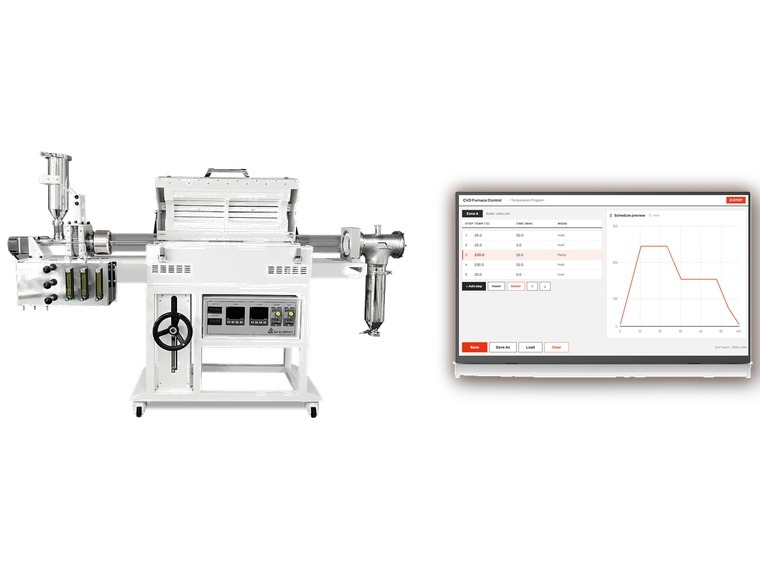
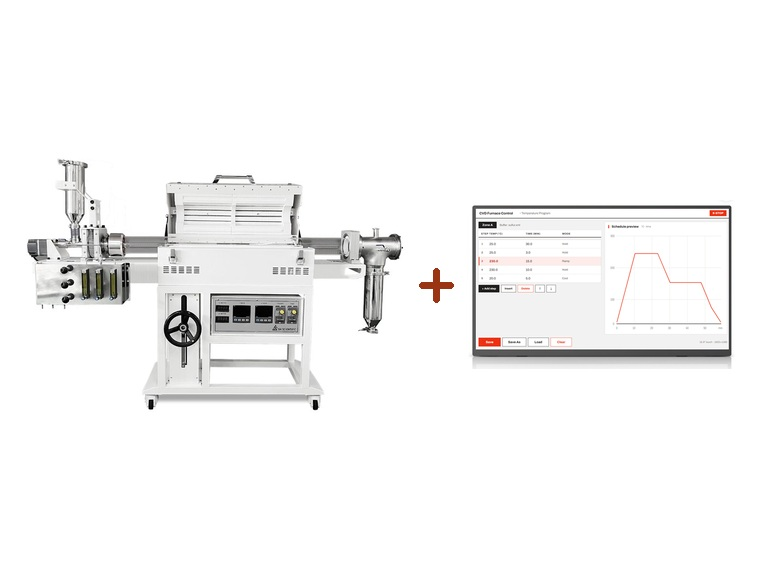
회전튜브로 PRO: 대표사진 재작업, 비교 섹션 정리, Alicat Q&A 비교표 하단 배치

diff --git a/sh-scientific/catalog/rotary-tube-furnace-pro/index.html b/sh-scientific/catalog/rotary-tube-furnace-pro/index.html
@@ -132,7 +132,7 @@
   .vs-h{ text-align:center; font-family:var(--serif); font-size:27px; font-weight:600; color:#3A342E; letter-spacing:-.02em; margin:0 0 24px; line-height:1.4; }
   .vs-h b{ font-weight:700; color:#1A1A1A; }
   .vs-box{ display:grid; grid-template-columns:var(--ax) minmax(0,1fr) minmax(0,1fr); column-gap:var(--gp); }
-  .vs-ax{ display:flex; align-items:center; justify-content:flex-end; padding:0 2px 0 0; }
+  .vs-ax{ display:flex; align-items:center; justify-content:center; padding:0; }
   .vs-ax span{ font-size:13px; font-weight:800; color:#B4ADA5; letter-spacing:-.01em; }
   .vs-c{ background:#fff; padding:0 24px; border-left:1px solid #EAE7E3; border-right:1px solid #EAE7E3; }
   .vs-c.b{ border-left:1.5px solid #C2410C; border-right:1.5px solid #C2410C; }
@@ -147,7 +147,7 @@
   .vs-c.b .vs-chip{ background:#C2410C; color:#fff; }
   .vs-nm span.t{ font-size:15px; font-weight:800; color:#7C736A; letter-spacing:-.01em; }
   .vs-c.b .vs-nm span.t{ color:#1A1A1A; }
-  .vs-t{ list-style:none; text-align:left; font-size:13.5px; line-height:1.6; color:#9A948D; margin:0; padding:26px 2px; display:flex; flex-direction:column; gap:9px; }
+  .vs-t{ list-style:none; text-align:center; font-size:13.5px; line-height:1.6; color:#9A948D; margin:0; padding:26px 2px; display:flex; flex-direction:column; gap:9px; }
   .vs-t li{ position:relative; }
   .vs-sub{ display:block; margin-top:4px; font-size:12px; font-weight:400; color:#8A837C; line-height:1.55; }
   .vs-c.b .vs-sub b{ color:#C2410C; font-weight:700; }
@@ -164,7 +164,7 @@
     .vs-h{ font-size:20px; }
     .vs-eb{ font-size:11px; letter-spacing:.3em; }
     .vs-box{ grid-template-columns:minmax(0,1fr) minmax(0,1fr); }
-    .vs-ax{ grid-column:1 / -1; justify-content:flex-start; padding:16px 0 6px; }
+    .vs-ax{ grid-column:1 / -1; justify-content:center; padding:16px 0 6px; }
     .vs-ax span{ font-size:11.5px; letter-spacing:.05em; }
     .vs-c{ padding:0 12px; }
     .vs-r1{ padding-top:18px; }
@@ -177,6 +177,26 @@
     .vs-c:not(.vs-r1),.vs-c.b:not(.vs-r1){ border-top:0; }
     .vs-t br{ display:none; }
   }
+
+  /* --- FAQ 시나리오 예시 --- */
+  .faq-ex{ margin:10px 0 0; display:flex; flex-direction:column; gap:9px; }
+  .faq-ex .ex{ background:#FAF8F5; border-left:3px solid #C2410C; border-radius:0 8px 8px 0; padding:11px 14px; }
+  .faq-ex .ex-h{ font-size:12.5px; font-weight:800; color:#9A3412; margin:0 0 6px; letter-spacing:-.01em; }
+  .faq-ex ol,.faq-ex ul{ margin:0; padding:0; list-style:none; display:flex; flex-direction:column; gap:4px; }
+  .faq-ex li{ font-size:13px; color:#3a3a3a; line-height:1.6; padding-left:22px; position:relative; }
+  .faq-ex li .n{ position:absolute; left:0; top:0; font-size:11px; font-weight:800; color:#C2410C; }
+  .faq-ex li b{ color:#1A1A1A; }
+  .ex-grid{ display:grid; grid-template-columns:minmax(0,.92fr) minmax(0,1.08fr); gap:18px; align-items:center; }
+  .exg{ width:100%; height:auto; display:block; }
+  @media(max-width:760px){ .ex-grid{ grid-template-columns:1fr; gap:12px; } }
+
+
+  /* --- 비교표 아래 심화 Q --- */
+  .vsq{ margin:22px 0 4px; border:1px solid #E7E3DE; border-radius:14px; padding:20px 24px 22px; background:#fff; }
+  .vsq-q{ font-family:var(--serif); font-size:17px; font-weight:700; color:#1A1A1A; letter-spacing:-.02em; margin:0 0 10px; line-height:1.45; }
+  .vsq-q .vsq-b{ display:inline-block; margin-right:9px; font-family:var(--sans); font-size:11px; font-weight:800; color:#fff; background:#C2410C; border-radius:5px; padding:3px 8px; vertical-align:2px; }
+  .vsq .faq-a{ font-size:14px; margin:0; }
+  @media(max-width:760px){ .vsq{ padding:16px 15px 18px; } .vsq-q{ font-size:15px; } }
 </style>
 <link rel="stylesheet" href="/assets/site.css">
 <!--HEADLD_START--><script type="application/ld+json">{"@context": "https://schema.org", "@graph": [{"@type": "Organization", "@id": "https://rndsetup.com/#org", "name": "실험셋업연구소", "alternateName": ["정량펌프연구소", "rndsetup", "이머전트", "Emergent", "emergent co."], "legalName": "이머전트", "taxID": "328-03-02926", "url": "https://rndsetup.com/", "email": "info@rndsetup.com", "telephone": "+82-70-8983-2600", "founder": {"@type": "Person", "name": "이영현"}, "sameAs": ["https://www.google.com/maps?cid=4429951187161412134", "https://www.youtube.com/@rndsetuplab", "https://www.linkedin.com/company/rndsetup/", "https://www.wikidata.org/wiki/Q140603002"], "slogan": "실험 장비 시스템 통합·제어", "description": "펌프·질량유량계(MFC)·전기로 등으로 온도·진공·유량을 제어하고, 나아가 측정 기기까지 연동해 서로 다른 실험 기기를 하나의 시스템으로 통합·자동화하는 실험 장비 시스템 통합·제어 전문. 온도·진공·유량 조건과 측정 데이터를 Modbus·RS485로 묶어 PC에서 통합 제어하고 무인 운전·로그(CSV)까지 하나의 셋업으로 만든다. 그 과정에서 필요한 개별 장비는 리드플루이드(LeadFluid)·삼흥에너지(SH Scientific) 공식 대리점이자 Alicat 질량유량계(MFC) 취급점으로 정품 공급하고 국내에서 직접 A/S(구매 시 3년 무상보증)까지 함께 지원한다.", "address": {"@type": "PostalAddress", "addressLocality": "부산광역시", "addressCountry": "KR"}, "areaServed": {"@type": "Country", "name": "대한민국"}, "knowsAbout": ["실험 장비 시스템 통합", "실험 기기 통합 제어", "온도 제어", "진공 제어", "유량 제어", "측정 기기 연동", "Modbus·RS-485 통합 제어", "실험실 정량펌프", "연동펌프(페리스탈틱 펌프)", "시린지펌프", "기어펌프", "질량유량계(MFC)", "관류배양", "연속배양(chemostat)", "리드플루이드(LeadFluid) 펌프", "리드플루이드 펌프 국내 직접 A/S", "실험 셋업 정보", "Alicat 질량유량계", "삼흥에너지(SH Scientific) 튜브퍼니스·전기로", "열처리로(전기로·튜브퍼니스)"], "contactPoint": {"@type": "ContactPoint", "telephone": "+82-70-8983-2600", "email": "info@rndsetup.com", "contactType": "customer support", "areaServed": "KR", "availableLanguage": "Korean"}, "makesOffer": [{"@type": "Offer", "itemOffered": {"@type": "Service", "name": "LeadFluid 정량·연동·시린지펌프 제어 시스템 공급·A/S", "serviceType": "실험실 펌프 시스템 공급 및 소프트웨어 제어", "brand": {"@type": "Brand", "name": "LeadFluid", "alternateName": "리드플루이드"}}}, {"@type": "Offer", "itemOffered": {"@type": "Service", "name": "Alicat 질량유량계(MFC) 공급·시스템 연동", "serviceType": "질량유량계 공급 및 제어 연동", "brand": {"@type": "Brand", "name": "Alicat Scientific"}}}]}, {"@type": "WebSite", "@id": "https://rndsetup.com/#website", "name": "실험셋업연구소", "url": "https://rndsetup.com/", "publisher": {"@id": "https://rndsetup.com/#org"}, "inLanguage": "ko"}, {"@type": "Brand", "@id": "https://rndsetup.com/#leadfluid", "name": "리드플루이드", "alternateName": ["LeadFluid", "Lead Fluid", "리드플루이드"], "sameAs": ["https://www.leadfluid.com/", "https://www.leadfluid.com.cn/", "https://www.wikidata.org/wiki/Q140602893"]}]}</script><!--HEADLD_END--></head>
@@ -199,17 +219,14 @@
 </section>
 <section class="prosec">
   <div class="wrap">
-    <span class="pro-tag">PRO 버전 · PC 제어</span>
-    <h2 class="pro-h">컨트롤러 앞에 서 있는 시간을 없앱니다</h2>
-    <p class="pro-sub">노 본체는 그대로, <b>제어 방식만 바꾼 상위 구성</b>입니다. 무엇이 달라지는지 아래에서 항목별로 비교했습니다.</p>
     <div class="vs">
       <p class="vs-eb">BASIC vs PRO</p>
       <h3 class="vs-h">정확한 실험과 장비 안전을 위해<br><b>PRO 버전을 추천드립니다</b></h3>
       <div class="vs-box">
       <div class="vs-ax"></div>
       <div class="vs-c a vs-r1">
-        <div class="vs-im"><img src="/img/product/sh/ctrl-sp590.jpg" alt="기본 버전 — SP590 온도 컨트롤러" loading="lazy" width="800" height="600"></div>
-        <p class="vs-nm"><span class="vs-chip">기본</span><span class="t">SP590 컨트롤러</span></p>
+        <div class="vs-im"><img src="/img/product/sh/ctrl-sp590.jpg" alt="기본 버전 — 기존 온도 컨트롤러" loading="lazy" width="800" height="600"></div>
+        <p class="vs-nm"><span class="vs-chip">기본</span><span class="t">기존 컨트롤러</span></p>
       </div>
       <div class="vs-c b vs-r1">
         <div class="vs-im"><img src="/img/product/sh/ctrl-pc.jpg" alt="PRO 버전 — PC 제어 소프트웨어" loading="lazy" width="800" height="600"></div>
@@ -226,6 +243,10 @@
       <div class="vs-c b vs-last"><ul class="vs-t"><li><b>실험 로그 저장</b> 후 정상작동 확인 가능</li><li><b>온도 상승률·오버슈팅·유지시간·쿨링속도</b> 분석 가능</li><li><b>튜토리얼 기능</b>으로 인수인계 문제 해결</li></ul></div>
       </div>
       <p class="vs-ft">PRO는 장비를 바꾸는 게 아니라 <b>제어 방식을 바꾸는 구성</b>입니다. 노 본체·사양은 기본 버전과 동일합니다.<br>가스 분위기까지 함께 제어하려면 <a href="/alicat/" style="color:#C2410C;font-weight:700;text-decoration:none">Alicat 질량유량계(MFC)</a>를 추가해 <b>온도·유량을 하나의 스케줄</b>로 묶습니다.</p>
+    </div>
+    <div class="vsq">
+      <p class="vsq-q"><span class="vsq-b">Q</span>Alicat MFC를 붙이면 가스 유량도 자동으로 제어되나요?</p>
+      <p class="faq-a">네. PRO의 PC 제어 시스템에 <b>Alicat 질량유량계(MFC)</b>를 연동하면 <b>온도와 가스 유량을 하나의 스케줄</b>로 묶어 운전합니다. 아래처럼 시나리오를 미리 짜두고 <b>시작만 누르면</b> 나머지는 자동입니다.</p><div class="faq-ex"><div class="ex"><p class="ex-h">예시 — 퍼지부터 가스 잠금까지 한 번에</p><div class="ex-grid"><ul><li><span class="n">①</span><b>불활성 가스 200cc/min</b>으로 <b>30분</b> 퍼지</li><li><span class="n">②</span><b>5℃/min</b> 속도로 승온 스케줄 시작</li><li><span class="n">③</span>타겟 온도 도달 — 불활성 가스 <b>200 → 50cc/min</b>으로 자동 감소</li><li><span class="n">④</span>공정 완료 — 불활성 가스 <b>50 → 0cc/min</b>으로 자동 잠금</li></ul><svg class="exg" viewBox="0 0 700 250" role="img" aria-label="퍼지 30분(가스 200cc/min) → 5도/분 승온 → 타겟 도달 시 가스 200에서 50cc/min → 공정 완료 시 50에서 0cc/min 잠금"><style>.gl{stroke:#EFEBE6;stroke-width:1}.tk{stroke:#D8D2CB;stroke-width:1}.ax,.ay,.ay2{font-size:10px;fill:#A8A099;font-family:inherit}.ay{text-anchor:end}.ay2{text-anchor:start;fill:#7A8CA6}.ax{text-anchor:middle}.tl{fill:none;stroke:#C2410C;stroke-width:2.4;stroke-linejoin:round}.glz{fill:none;stroke:#1E3A5F;stroke-width:2;stroke-dasharray:5 4;stroke-linejoin:round}.bd{fill:#C2410C}.bt{font-size:11px;font-weight:700;fill:#fff;text-anchor:middle;font-family:inherit}.lg{font-size:10.5px;font-weight:700;font-family:inherit}</style><line class="gl" x1="60" y1="206.0" x2="646" y2="206.0"/><text class="ay" x="52" y="210.0">0</text><line class="gl" x1="60" y1="154.6" x2="646" y2="154.6"/><text class="ay" x="52" y="158.6">200</text><line class="gl" x1="60" y1="103.1" x2="646" y2="103.1"/><text class="ay" x="52" y="107.1">400</text><line class="gl" x1="60" y1="51.7" x2="646" y2="51.7"/><text class="ay" x="52" y="55.7">600</text><text class="ay2" x="654" y="210.0">0</text><text class="ay2" x="654" y="138.0">100</text><text class="ay2" x="654" y="66.0">200</text><line class="tk" x1="60.0" y1="206" x2="60.0" y2="211"/><text class="ax" x="60.0" y="225">0</text><line class="tk" x1="125.1" y1="206" x2="125.1" y2="211"/><text class="ax" x="125.1" y="225">30</text><line class="tk" x1="374.7" y1="206" x2="374.7" y2="211"/><text class="ax" x="374.7" y="225">145</text><line class="tk" x1="504.9" y1="206" x2="504.9" y2="211"/><text class="ax" x="504.9" y="225">205</text><line class="tk" x1="635.1" y1="206" x2="635.1" y2="211"/><text class="ax" x="635.1" y="225">265</text><line class="tk" x1="60" y1="206" x2="646" y2="206"/><polyline class="glz" points="60.0,62.0 374.7,62.0 374.7,170.0 504.9,170.0 504.9,206.0 635.1,206.0"/><polyline class="tl" points="60.0,199.6 125.1,199.6 374.7,51.7 504.9,51.7 635.1,199.6"/><g><circle class="bd" cx="74.0" cy="46.0" r="11"/><text class="bt" x="74.0" y="50.5">①</text></g><g><circle class="bd" cx="127.1" cy="183.6" r="11"/><text class="bt" x="127.1" y="188.1">②</text></g><g><circle class="bd" cx="378.7" cy="37.7" r="11"/><text class="bt" x="378.7" y="42.2">③</text></g><g><circle class="bd" cx="518.9" cy="156.0" r="11"/><text class="bt" x="518.9" y="160.5">④</text></g><text class="ay" x="8" y="16" style="text-anchor:start;fill:#C2410C;font-weight:700">온도 ℃</text><text class="ay2" x="640" y="16" style="font-weight:700">유량 cc/min</text><text class="ax" x="353.0" y="243" style="fill:#B4ADA5">시간 (min)</text><line class="tl" x1="60" y1="232" x2="82" y2="232"/><text class="lg" x="88" y="236" fill="#C2410C">온도</text><line class="glz" x1="130" y1="232" x2="152" y2="232"/><text class="lg" x="158" y="236" fill="#1E3A5F">가스 유량</text></svg></div></div></div><p class="faq-a">온도·유량 이력은 <b>함께 로그로 저장</b>돼, 같은 조건을 그대로 다시 돌릴 수 있습니다.</p>
     </div>
   </div>
 </section>
@@ -279,11 +300,11 @@
   <div class="wrap">
     <hr class="pkg-hr">
     <h2 class="faq-h">이 제품 FAQ</h2>
-    <div class="faq-item"><p class="faq-q">회전 튜브로는 일반 튜브로와 무엇이 다른가요?</p><p class="faq-a">튜브가 <b>회전</b>하면서 시료를 연속으로 투입·회수합니다. 분말이 뭉치지 않고 고르게 열을 받으며, 회전속도(0.7~14RPM)와 경사각(0~15°)으로 <b>체류시간</b>을 조절합니다. 배치 단위로 넣고 빼는 일반 튜브로와 달리 <b>연속 공정</b>에 가깝습니다.</p></div><div class="faq-item"><p class="faq-q">열분해(Pyrolysis)에 쓸 수 있나요?</p><p class="faq-a">가능합니다. 후단부에 <b>대형 응축장치(콜드트랩 베스, SH-WB-68/100GDR)</b>를 연결해 발생 가스를 포집·회수합니다. 타르 배출용 KF25 Port가 기본 구성되어 있고, 배기 가스 응축 방지용 <b>Heating Jacket(Max 400℃)</b>을 옵션으로 추가할 수 있습니다.</p></div><div class="faq-item"><p class="faq-q">실제로 몇 도까지 쓰는 게 맞나요?</p><p class="faq-a">스펙은 1200℃지만 <b>로 분위기 온도 1000℃ 이하</b> 사용에 적합합니다. 옵션으로 사용온도를 1100℃까지 올릴 수 있습니다.</p></div><div class="faq-item"><p class="faq-q">Alicat MFC를 붙이면 가스 유량도 자동으로 제어되나요?</p><p class="faq-a">네. PRO의 PC 제어 시스템에 <b>Alicat 질량유량계(MFC)</b>를 연동하면 <b>승온 프로파일과 가스 유량을 하나의 스케줄</b>로 묶어 운전합니다. 예를 들어 승온 구간에는 불활성 가스를 흘리고, 유지 구간에서 반응가스로 전환하는 식의 시나리오를 미리 설계해두고 시작만 누르면 됩니다. 온도·유량 이력은 함께 로그로 남습니다.</p></div><div class="faq-item"><p class="faq-q">진공 공정도 되나요?</p><p class="faq-a">튜브 교체가 쉽고 <b>Gas Sealing 구조</b>가 갖춰져 있어 진공 공정 수행이 가능합니다. 진공펌프는 별도 구성이며 함께 셋업해 공급합니다.</p></div>
+    <div class="faq-item"><p class="faq-q">회전 튜브로는 일반 튜브로와 무엇이 다른가요?</p><p class="faq-a">튜브가 <b>회전</b>하면서 시료를 연속으로 투입·회수합니다. 분말이 뭉치지 않고 고르게 열을 받으며, 회전속도(0.7~14RPM)와 경사각(0~15°)으로 <b>체류시간</b>을 조절합니다. 배치 단위로 넣고 빼는 일반 튜브로와 달리 <b>연속 공정</b>에 가깝습니다.</p></div><div class="faq-item"><p class="faq-q">열분해(Pyrolysis)에 쓸 수 있나요?</p><p class="faq-a">가능합니다. 후단부에 <b>대형 응축장치(콜드트랩 베스, SH-WB-68/100GDR)</b>를 연결해 발생 가스를 포집·회수합니다. 타르 배출용 KF25 Port가 기본 구성되어 있고, 배기 가스 응축 방지용 <b>Heating Jacket(Max 400℃)</b>을 옵션으로 추가할 수 있습니다.</p></div><div class="faq-item"><p class="faq-q">실제로 몇 도까지 쓰는 게 맞나요?</p><p class="faq-a">스펙은 1200℃지만 <b>로 분위기 온도 1000℃ 이하</b> 사용에 적합합니다. 옵션으로 사용온도를 1100℃까지 올릴 수 있습니다.</p></div><div class="faq-item"><p class="faq-q">진공 공정도 되나요?</p><p class="faq-a">튜브 교체가 쉽고 <b>Gas Sealing 구조</b>가 갖춰져 있어 진공 공정 수행이 가능합니다. 진공펌프는 별도 구성이며 함께 셋업해 공급합니다.</p></div>
   </div>
 </section>
-<script type="application/ld+json">{"@context": "https://schema.org", "@type": "Product", "name": "삼흥에너지 1200℃ 회전 튜브로 PRO (Small Scale Rotary Kiln, SH-FU-RTG)", "brand": {"@type": "Brand", "name": "SH Scientific", "alternateName": "삼흥에너지"}, "category": "실험용 회전 튜브로(로터리 킬른)", "url": "https://rndsetup.com/sh-scientific/catalog/rotary-tube-furnace-pro/", "description": "삼흥에너지 회전 튜브로(Small Scale Rotary Kiln)는 튜브를 회전시키며 시료를 연속 투입·회수하는 1200℃ 열처리로입니다. Hot Zone 300mm를 2단 또는 3단으로 배치하고, 튜브 회전 0.7~14RPM·경사 0~15°를 조절해 체류시간을 맞춥니다. 석영 View Port로 튜브 내부 전체를 관찰할 수 있고, 열분해용으로 쓸 때는 후단에 대형 응축장치(콜드트랩 베스)를 연결할 수 있습니다. 로 분위기 온도 1000℃ 이하 사용에 적합합니다.", "additionalProperty": [{"@type": "PropertyValue", "name": "최고온도", "value": "1200℃"}, {"@type": "PropertyValue", "name": "Hot Zone", "value": "300mm × 2 또는 × 3"}, {"@type": "PropertyValue", "name": "적용 튜브", "value": "100~140Φ × 1500~2000mm"}, {"@type": "PropertyValue", "name": "튜브 회전속도", "value": "0.7~14 RPM"}, {"@type": "PropertyValue", "name": "튜브 경사각", "value": "0~15°"}, {"@type": "PropertyValue", "name": "발열체", "value": "Kanthal A-1"}, {"@type": "PropertyValue", "name": "권장 분위기 온도", "value": "1000℃ 이하"}, {"@type": "PropertyValue", "name": "가스 유량 스케줄링", "value": "Alicat 질량유량계(MFC) 연동 시 승온 프로파일과 가스 유량을 하나의 스케줄로 통합 제어"}, {"@type": "PropertyValue", "name": "온도컨트롤러", "value": "PC 제어 시스템 (PRO) · 기본형은 Programmable Controller SP590"}], "model": ["SH-FU-100RTG-2", "SH-FU-120RTG-2", "SH-FU-140RTG-2S", "SH-FU-100RTG-3", "SH-FU-120RTG-3", "SH-FU-140RTG-3S"], "image": "https://rndsetup.com/img/product/sh/rotary-tube-furnace-pro.jpg", "manufacturer": {"@type": "Organization", "name": "SH Scientific"}, "offers": {"@type": "Offer", "availability": "https://schema.org/InStock", "url": "https://rndsetup.com/sh-scientific/guide/#quoteForm", "businessFunction": "http://purl.org/goodrelations/v1#Sell", "seller": {"@id": "https://rndsetup.com/#org"}}, "isRelatedTo": {"@type": "WebPage", "@id": "https://rndsetup.com/sh-scientific/catalog/"}}</script>
-<script type="application/ld+json">{"@context": "https://schema.org", "@type": "FAQPage", "mainEntity": [{"@type": "Question", "name": "회전 튜브로는 일반 튜브로와 무엇이 다른가요?", "acceptedAnswer": {"@type": "Answer", "text": "튜브가 회전하면서 시료를 연속으로 투입·회수합니다. 분말이 뭉치지 않고 고르게 열을 받으며, 회전속도(0.7~14RPM)와 경사각(0~15°)으로 체류시간을 조절합니다. 배치 단위로 넣고 빼는 일반 튜브로와 달리 연속 공정에 가깝습니다."}}, {"@type": "Question", "name": "열분해(Pyrolysis)에 쓸 수 있나요?", "acceptedAnswer": {"@type": "Answer", "text": "가능합니다. 후단부에 대형 응축장치(콜드트랩 베스, SH-WB-68/100GDR)를 연결해 발생 가스를 포집·회수합니다. 타르 배출용 KF25 Port가 기본 구성되어 있고, 배기 가스 응축 방지용 Heating Jacket(Max 400℃)을 옵션으로 추가할 수 있습니다."}}, {"@type": "Question", "name": "실제로 몇 도까지 쓰는 게 맞나요?", "acceptedAnswer": {"@type": "Answer", "text": "스펙은 1200℃지만 로 분위기 온도 1000℃ 이하 사용에 적합합니다. 옵션으로 사용온도를 1100℃까지 올릴 수 있습니다."}}, {"@type": "Question", "name": "Alicat MFC를 붙이면 가스 유량도 자동으로 제어되나요?", "acceptedAnswer": {"@type": "Answer", "text": "네. PRO의 PC 제어 시스템에 Alicat 질량유량계(MFC)를 연동하면 승온 프로파일과 가스 유량을 하나의 스케줄로 묶어 운전합니다. 예를 들어 승온 구간에는 불활성 가스를 흘리고, 유지 구간에서 반응가스로 전환하는 식의 시나리오를 미리 설계해두고 시작만 누르면 됩니다. 온도·유량 이력은 함께 로그로 남습니다."}}, {"@type": "Question", "name": "진공 공정도 되나요?", "acceptedAnswer": {"@type": "Answer", "text": "튜브 교체가 쉽고 Gas Sealing 구조가 갖춰져 있어 진공 공정 수행이 가능합니다. 진공펌프는 별도 구성이며 함께 셋업해 공급합니다."}}]}</script>
+<script type="application/ld+json">{"@context": "https://schema.org", "@type": "Product", "name": "삼흥에너지 1200℃ 회전 튜브로 PRO (Small Scale Rotary Kiln, SH-FU-RTG)", "brand": {"@type": "Brand", "name": "SH Scientific", "alternateName": "삼흥에너지"}, "category": "실험용 회전 튜브로(로터리 킬른)", "url": "https://rndsetup.com/sh-scientific/catalog/rotary-tube-furnace-pro/", "description": "삼흥에너지 회전 튜브로(Small Scale Rotary Kiln)는 튜브를 회전시키며 시료를 연속 투입·회수하는 1200℃ 열처리로입니다. Hot Zone 300mm를 2단 또는 3단으로 배치하고, 튜브 회전 0.7~14RPM·경사 0~15°를 조절해 체류시간을 맞춥니다. 석영 View Port로 튜브 내부 전체를 관찰할 수 있고, 열분해용으로 쓸 때는 후단에 대형 응축장치(콜드트랩 베스)를 연결할 수 있습니다. 로 분위기 온도 1000℃ 이하 사용에 적합합니다.", "additionalProperty": [{"@type": "PropertyValue", "name": "최고온도", "value": "1200℃"}, {"@type": "PropertyValue", "name": "Hot Zone", "value": "300mm × 2 또는 × 3"}, {"@type": "PropertyValue", "name": "적용 튜브", "value": "100~140Φ × 1500~2000mm"}, {"@type": "PropertyValue", "name": "튜브 회전속도", "value": "0.7~14 RPM"}, {"@type": "PropertyValue", "name": "튜브 경사각", "value": "0~15°"}, {"@type": "PropertyValue", "name": "발열체", "value": "Kanthal A-1"}, {"@type": "PropertyValue", "name": "권장 분위기 온도", "value": "1000℃ 이하"}, {"@type": "PropertyValue", "name": "가스 유량 스케줄링", "value": "Alicat 질량유량계(MFC) 연동 시 승온 프로파일과 가스 유량을 하나의 스케줄로 통합 제어"}, {"@type": "PropertyValue", "name": "온도컨트롤러", "value": "PC 제어 시스템 (PRO) · 기본형은 기존 프로그램 컨트롤러"}], "model": ["SH-FU-100RTG-2", "SH-FU-120RTG-2", "SH-FU-140RTG-2S", "SH-FU-100RTG-3", "SH-FU-120RTG-3", "SH-FU-140RTG-3S"], "image": "https://rndsetup.com/img/product/sh/rotary-tube-furnace-pro.jpg", "manufacturer": {"@type": "Organization", "name": "SH Scientific"}, "offers": {"@type": "Offer", "availability": "https://schema.org/InStock", "url": "https://rndsetup.com/sh-scientific/guide/#quoteForm", "businessFunction": "http://purl.org/goodrelations/v1#Sell", "seller": {"@id": "https://rndsetup.com/#org"}}, "isRelatedTo": {"@type": "WebPage", "@id": "https://rndsetup.com/sh-scientific/catalog/"}}</script>
+<script type="application/ld+json">{"@context": "https://schema.org", "@type": "FAQPage", "mainEntity": [{"@type": "Question", "name": "회전 튜브로는 일반 튜브로와 무엇이 다른가요?", "acceptedAnswer": {"@type": "Answer", "text": "튜브가 회전하면서 시료를 연속으로 투입·회수합니다. 분말이 뭉치지 않고 고르게 열을 받으며, 회전속도(0.7~14RPM)와 경사각(0~15°)으로 체류시간을 조절합니다. 배치 단위로 넣고 빼는 일반 튜브로와 달리 연속 공정에 가깝습니다."}}, {"@type": "Question", "name": "열분해(Pyrolysis)에 쓸 수 있나요?", "acceptedAnswer": {"@type": "Answer", "text": "가능합니다. 후단부에 대형 응축장치(콜드트랩 베스, SH-WB-68/100GDR)를 연결해 발생 가스를 포집·회수합니다. 타르 배출용 KF25 Port가 기본 구성되어 있고, 배기 가스 응축 방지용 Heating Jacket(Max 400℃)을 옵션으로 추가할 수 있습니다."}}, {"@type": "Question", "name": "실제로 몇 도까지 쓰는 게 맞나요?", "acceptedAnswer": {"@type": "Answer", "text": "스펙은 1200℃지만 로 분위기 온도 1000℃ 이하 사용에 적합합니다. 옵션으로 사용온도를 1100℃까지 올릴 수 있습니다."}}, {"@type": "Question", "name": "Alicat MFC를 붙이면 가스 유량도 자동으로 제어되나요?", "acceptedAnswer": {"@type": "Answer", "text": "네. PRO의 PC 제어 시스템에 Alicat 질량유량계(MFC)를 연동하면 온도와 가스 유량을 하나의 스케줄로 묶어 운전합니다. 예시 — 퍼지부터 가스 잠금까지 한 번에: ① 불활성 가스 200cc/min으로 30분 퍼지, ② 5℃/min 속도로 승온 스케줄 시작, ③ 타겟 온도 도달 시 불활성 가스를 200cc/min에서 50cc/min으로 자동 감소, ④ 공정 완료 후 불활성 가스를 50cc/min에서 0cc/min으로 자동 잠금. 온도·유량 이력은 함께 로그로 저장돼 같은 조건을 그대로 다시 돌릴 수 있습니다."}}, {"@type": "Question", "name": "진공 공정도 되나요?", "acceptedAnswer": {"@type": "Answer", "text": "튜브 교체가 쉽고 Gas Sealing 구조가 갖춰져 있어 진공 공정 수행이 가능합니다. 진공펌프는 별도 구성이며 함께 셋업해 공급합니다."}}]}</script>
 <div id="pumplab-footer"><!--CNAV_START--><nav class="crawler-nav" aria-label="사이트 전체 링크"><div class="cn-group"><h5>펌프·제어</h5><ul><li><a href="/requests/">소프트웨어 제어</a></li><li><a href="/leadfluid/blog/">펌프 셋업 사례 — 실제 도입·제어·유량 보정 셋업</a></li><li><a href="/pump/atoz/">펌프 문제해결 — 유량 이상·튜빙 파손·멈춤 증상별 해결</a></li><li><a href="/leadfluid/guide/">펌프·튜브 선택 가이드 — 조건 입력하면 추천</a></li><li><a href="/pump/atoz/peristaltic-flow-setpoint-mismatch/">연동펌프 유량이 설정값과 다른 이유</a></li><li><a href="/pump/atoz/tubing-crush-tear-causes/">연동펌프 튜빙 씹힘·찢어짐 원인·해결</a></li><li><a href="/pump/atoz/flow-calibration/">연동펌프 유량 캘리브레이션 방법 — 설정값·실제 유량 보정</a></li><li><a href="/pump/atoz/tube-size-guide/">연동펌프 튜브 규격·펌프헤드 가이드 — 번호별 내경(mm)·유량</a></li><li><a href="/pump/setups/plating-flow-calibration/">도금 라인 유량 보정 셋업 — BT101L 2대 다펌프 제어(도입 스토리)</a></li></ul></div><div class="cn-group"><h5>실험 기법</h5><ul><li><a href="/application/flow-chemistry">flow chemistry 연속흐름 반응</a></li></ul></div><div class="cn-group"><h5>산업 분야</h5><ul><li><a href="/about/">실험셋업연구소 회사소개 — 리드플루이드 공식 대리점·실험 펌프·유체제어 셋업</a></li><li><a href="/sh-scientific/guide/">삼흥에너지(SH-Scientific) 전기로·튜브퍼니스 — 제품 선택·견적·열처리 셋업</a></li><li><a href="/sh-scientific/manual/">삼흥에너지 전기로·튜브퍼니스 메뉴얼 — 사용법·승온 프로그램·안전</a></li><li><a href="/sh-scientific/blog/">삼흥에너지 전기로·튜브퍼니스 설치·A/S 블로그</a></li><li><a href="/alicat/">ALICAT 질량유량계(MFC) — 정밀 가스 유량 제어</a></li><li><a href="/application/">실험 가이드</a></li><li><a href="/application/biopharmaceutical">바이오의약 — 발효·세포배양·정제·충전</a></li><li><a href="/application/analytical-instrument">분석기기 — 컬럼 주입·시료 정량 주입</a></li><li><a href="/application/environmental">환경 — 수질·폐수 정량 투입</a></li><li><a href="/furnace/setups/">퍼니스 셋업 사례 — 튜브퍼니스·전기로 가스·온도 제어 도입 사례</a></li><li><a href="/furnace/setups/alicat-mfc-tubefurnace/">1500℃ 튜브퍼니스 가스 분위기 제어 — Alicat MFC 도입 사례</a></li></ul></div><div class="cn-group"><h5>사례·신뢰</h5><ul><li><a href="/">홈</a></li><li><a href="/setups/">도입·논문 사례 — LeadFluid 펌프가 쓰인 연구 셋업</a></li><li><a href="/setups/heart-eshp-bt101l">심장 체외 관류(ESHP) — BT101L 연동펌프 (Frontiers 2021)</a></li><li><a href="/setups/damo-recirculation-bt600s">혐기성 메탄산화 반응기 순환 — BT600S 연동펌프 (Environ. Sci. Technol. 2021)</a></li><li><a href="/setups/nitrification-ph-bq50s">폐수 질산화 pH 제어 — BQ50S 정량펌프 (Bioresource Technology 2017)</a></li><li><a href="/setups/brain-electrode-tyd01">뇌 피질 인터페이싱 — TYD01-01 시린지펌프 (Nature Electronics 2024)</a></li><li><a href="/setups/catheter-heparin-bt101">혈관내 카테터 헤파린 코팅 — BT101 L 연동펌프 (Nature Communications 2024)</a></li><li><a href="/setups/co2-capture-ct3001f">연속 CO₂ 포집 — CT3001F PEEK 기어펌프 (Nature Communications 2024)</a></li><li><a href="/compare/imported-peristaltic-alternative/">Masterflex·Watson-Marlow 연동펌프 국내 대안</a></li><li><a href="/trust/">믿고 도입할 때 (국내 A/S·정품·보증)</a></li><li><a href="/faq/">자주 묻는 질문(FAQ)</a></li><li><a href="/contact/">문의하기</a></li></ul></div></nav><!--CNAV_END--></div>
 <script src="/assets/site.js" defer></script>
 </body>
